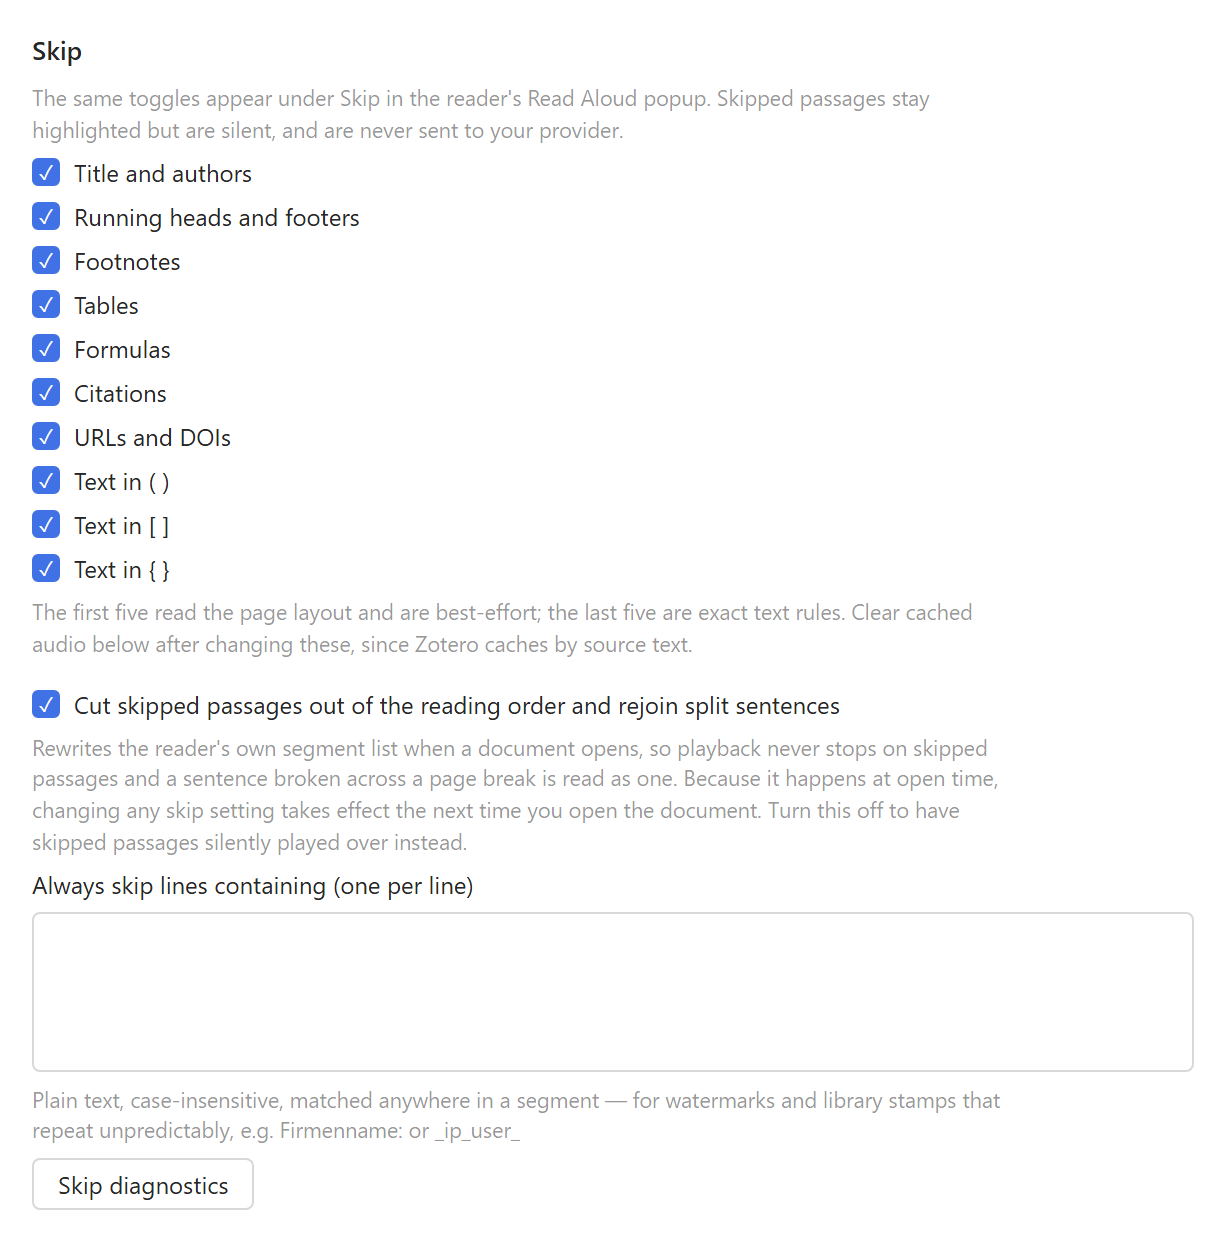
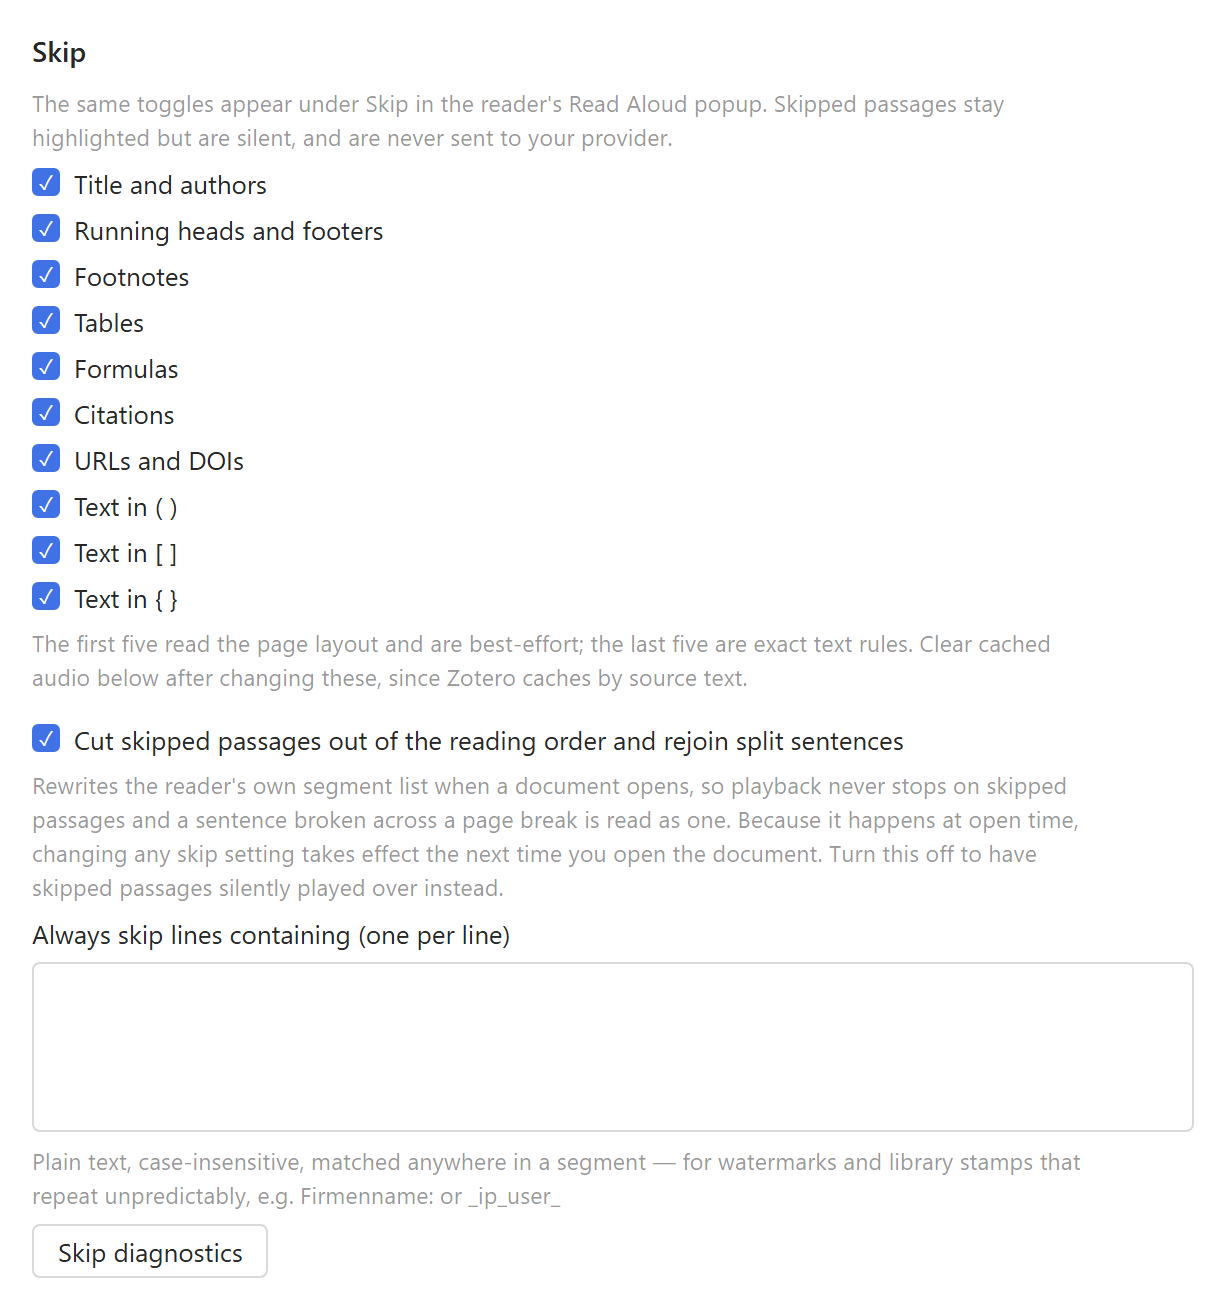
A voice for untagged text, and menus that actually open
Speakers gains "Voice for untagged text": narration, headings, anything no tag
claims. Leave it unset and that text keeps the reader's voice; set it and a
story reads as a narrator plus its characters. The test document already
separates the two, so configuring Mara, Theo and a narrator exercises all three.

The submenus never opened, and this is why: preferences.js converts oncommand
attributes on a parsed fragment and nothing else, so the inline onpopupshowing
never became a listener and the menu was never built. It is bound in script
now. The labels were the second half of it — a string set through Fluent as a
popup opens is not resolved in time and the entry renders blank, which looks
exactly like a missing submenu, so the handful of menu strings are resolved
once at load and applied as plain labels.

The test bar's separating line now appears only when content has scrolled
beneath it, rather than sitting there permanently.

Screenshots re-rendered with Zotero's own sidebar icons and the corrected text
size.

diff --git a/src/prefs/pane.js b/src/prefs/pane.js
@@ -73,9 +73,10 @@ var Zotero_BYOK_TTS = {
 			});
 		}
 
+		await this.cacheMenuStrings();
 		this.bindVoiceEditor();
 		this.bindControls();
-		this.renderSpeakerRows();
+		this.renderSpeakers();
 		this.buildEmotionPicker();
 		this.onProviderChange(true);
 		this.refreshLogPath();
@@ -109,6 +110,25 @@ var Zotero_BYOK_TTS = {
 		}
 	},
 
+	/**
+	 * Menus are built at the moment they open, and a label set through Fluent then is not
+	 * resolved in time — the entry renders blank, which looks exactly like a missing submenu.
+	 * Resolving the handful of strings once, up front, avoids the whole problem.
+	 */
+	async cacheMenuStrings() {
+		this._strings = {};
+		let ids = [
+			'byok-test-menu-voice', 'byok-test-menu-language', 'byok-test-menu-text',
+			'byok-test-menu-first', 'byok-test-menu-voice-default',
+			...this.EMOTIONS.map(([groupId]) => groupId)
+		];
+		for (let id of ids) this._strings[id] = await this.msg(id);
+	},
+
+	string(id) {
+		return (this._strings && this._strings[id]) || id;
+	},
+
 	async statusL10n(id, args, isError) {
 		this.status(await this.msg(id, args), isError);
 	},
@@ -138,6 +158,20 @@ var Zotero_BYOK_TTS = {
 		let firstLine = String(message || '').split('\n')[0];
 		summary.textContent = firstLine.length > 110 ? firstLine.slice(0, 110) + '…' : firstLine;
 		summary.classList.toggle('byok-error', state === 'error');
+	},
+
+	/** Show the bar's separating line only once content has scrolled beneath it. */
+	bindStickyLine() {
+		let bar = document.getElementById('byok-sticky');
+		if (!bar) return;
+		let scroller = bar.parentElement;
+		while (scroller && scroller.scrollHeight <= scroller.clientHeight + 1) {
+			scroller = scroller.parentElement;
+		}
+		if (!scroller) return;
+		let update = () => bar.classList.toggle('byok-stuck', scroller.scrollTop > 2);
+		scroller.addEventListener('scroll', update, { passive: true });
+		update();
 	},
 
 	/** Scroll to the test controls and leave focus there. */
@@ -245,7 +279,7 @@ var Zotero_BYOK_TTS = {
 		let submenu = (id) => {
 			let menu = document.createXULElement('menu');
 			menu.id = id;
-			document.l10n.setAttributes(menu, id);
+			menu.setAttribute('label', this.string(id));
 			let child = document.createXULElement('menupopup');
 			child.id = id + '-popup';
 			menu.append(child);
@@ -256,8 +290,7 @@ var Zotero_BYOK_TTS = {
 			let item = document.createXULElement('menuitem');
 			item.setAttribute('type', 'radio');
 			item.setAttribute('name', parent === popup ? 'byok-test' : 'byok-test-' + parent.id);
-			if (typeof label === 'string') item.setAttribute('label', label);
-			else document.l10n.setAttributes(item, label.id);
+			item.setAttribute('label', typeof label === 'string' ? label : this.string(label.id));
 			if (checked) item.setAttribute('checked', 'true');
 			item.addEventListener('command', onCommand);
 			(parent || popup).append(item);
@@ -285,7 +318,7 @@ var Zotero_BYOK_TTS = {
 
 		popup.append(document.createXULElement('menuseparator'));
 		let custom = document.createXULElement('menuitem');
-		document.l10n.setAttributes(custom, 'byok-test-menu-text');
+		custom.setAttribute('label', this.string('byok-test-menu-text'));
 		custom.addEventListener('command', () => this.promptTestText());
 		popup.append(custom);
 	},
@@ -331,7 +364,7 @@ var Zotero_BYOK_TTS = {
 
 		for (let [groupId, tags] of this.EMOTIONS) {
 			let menu = document.createXULElement('menu');
-			document.l10n.setAttributes(menu, groupId);
+			menu.setAttribute('label', this.string(groupId));
 			let child = document.createXULElement('menupopup');
 			for (let tag of tags) {
 				let item = document.createXULElement('menuitem');
@@ -379,6 +412,11 @@ var Zotero_BYOK_TTS = {
 	writeSpeakers(speakers) {
 		this.setPref('speakers', JSON.stringify(speakers));
 		this.renderSpeakerRows();
+	},
+
+	renderSpeakers() {
+		this.renderSpeakerRows();
+		this.renderDefaultSpeaker();
 	},
 
 	renderSpeakerRows() {
@@ -439,6 +477,31 @@ var Zotero_BYOK_TTS = {
 		});
 	},
 
+	/** The voice used for anything no speaker tag claims. */
+	renderDefaultSpeaker() {
+		let list = document.getElementById('byok-speakers-default');
+		let popup = document.getElementById('byok-speakers-default-popup');
+		if (!list || !popup) return;
+		let chosen = this.getPref('speakers.default') || '';
+		popup.replaceChildren();
+
+		let none = document.createXULElement('menuitem');
+		none.setAttribute('value', '');
+		none.setAttribute('label', this.string('byok-speakers-default-none'));
+		popup.append(none);
+		for (let voice of Zotero.BYOKTTS.getVoices()) {
+			let item = document.createXULElement('menuitem');
+			item.setAttribute('value', voice.id);
+			item.setAttribute('label', voice.label || voice.id);
+			popup.append(item);
+		}
+		list.value = chosen;
+		if (!list._byokBound) {
+			list._byokBound = true;
+			list.addEventListener('command', () => this.setPref('speakers.default', list.value));
+		}
+	},
+
 	addSpeaker() {
 		let voices = Zotero.BYOKTTS.getVoices();
 		let speakers = this.readSpeakers();
@@ -463,7 +526,7 @@ var Zotero_BYOK_TTS = {
 		this.renderVoiceRows();
 		this.renderHighlight();
 		// The speaker rows pick their voice from this list
-		this.renderSpeakerRows();
+		this.renderSpeakers();
 	},
 
 	/**
@@ -488,6 +551,13 @@ var Zotero_BYOK_TTS = {
 		// was never restored. Re-read once the real value lands.
 		let view = document.getElementById('byok-voices-view');
 		if (view) view.addEventListener('syncfrompreference', () => this.updateVoicesView());
+
+		// preferences.js converts oncommand attributes on a parsed fragment and nothing else,
+		// so onpopupshowing in the markup never becomes a listener
+		let testMenu = document.getElementById('byok-test-menu');
+		if (testMenu) testMenu.addEventListener('popupshowing', () => this.buildTestMenu(testMenu));
+
+		this.bindStickyLine();
 	},
 
 	bindVoiceEditor() {

diff --git a/src/lib/byok-tts.js b/src/lib/byok-tts.js
@@ -337,15 +337,27 @@ Zotero.BYOKTTS = new function () {
 	 */
 	this.matchSpeaker = function (text) {
 		let speakers = this.getSpeakers();
-		if (!speakers.length) return null;
+		let voices = this.getVoices();
 		let match = /^\s*\[([^\]]+)\]\s*/.exec(text);
-		if (!match) return null;
-		let name = match[1].trim().toLowerCase();
-		let speaker = speakers.find(s => String(s.tag).toLowerCase() === name);
-		if (!speaker) return null;
-		let voice = this.getVoices().find(v => v.id === speaker.voice);
-		if (!voice) return null;
-		return { voice, text: text.slice(match[0].length) };
+
+		if (match && speakers.length) {
+			let name = match[1].trim().toLowerCase();
+			let speaker = speakers.find(s => String(s.tag).toLowerCase() === name);
+			if (speaker) {
+				let voice = voices.find(v => v.id === speaker.voice);
+				if (voice) return { voice, text: text.slice(match[0].length) };
+			}
+		}
+
+		// Everything not claimed by a speaker — narration, headings — can have a voice of its
+		// own, so a story reads as a narrator plus its characters rather than one voice doing
+		// all of it.
+		let fallback = this.getPref('speakers.default');
+		if (fallback) {
+			let voice = voices.find(v => v.id === fallback);
+			if (voice) return { voice, text };
+		}
+		return null;
 	};
 
 	/** OpenRouter is offered separately for convenience but speaks the OpenAI dialect. */

diff --git a/src/prefs/pane.css b/src/prefs/pane.css
@@ -252,3 +252,13 @@
 	font-weight: 600;
 	opacity: .7;
 }
+
+/* The bar's separating line appears only once content has scrolled beneath it */
+#byok-sticky {
+	border-bottom: 1px solid transparent;
+}
+
+#byok-sticky.byok-stuck {
+	border-bottom-color: var(--fill-quarternary, rgba(128, 128, 128, .3));
+	box-shadow: 0 4px 8px -6px rgba(0, 0, 0, .35);
+}

diff --git a/src/prefs.js b/src/prefs.js
@@ -50,3 +50,6 @@ pref("extensions.zotero.byokTTS.test.text", "");
 
 // Per-character voices: [{ "tag": "Mara", "voice": "Kore" }]
 pref("extensions.zotero.byokTTS.speakers", "[]");
+
+// Voice for anything no speaker tag claims — narration and headings
+pref("extensions.zotero.byokTTS.speakers.default", "");

diff --git a/README.md b/README.md
@@ -262,8 +262,13 @@ itself is not read out:
 ![Speakers](images/settings-speakers.png)
 
 Set the tags under **Speakers** in the settings, each pointing at one of your voices — a female
-voice for Mara, a male one for Theo. Narration, having no tag, stays on the voice chosen in the
-reader. Speaker and emotion tags combine; the speaker tag has to come first.
+voice for Mara, a male one for Theo. **Voice for untagged text** in the same section covers
+everything no tag claims: narration, headings, ordinary prose. Leave it unset and that text keeps
+the voice chosen in the reader; set it and a story reads as a narrator plus its characters.
+
+Speaker and emotion tags combine, and the speaker tag has to come first. With sentence chunks the
+split falls where you would want it — `[Mara] [angry] “Theo!”` is Mara, and the narration sentence
+after it is the narrator.
 
 Automatic speaker detection is not attempted. Attribution in prose is genuinely ambiguous —
 consecutive lines by one character, unattributed replies — and guessing wrong is worse than not
